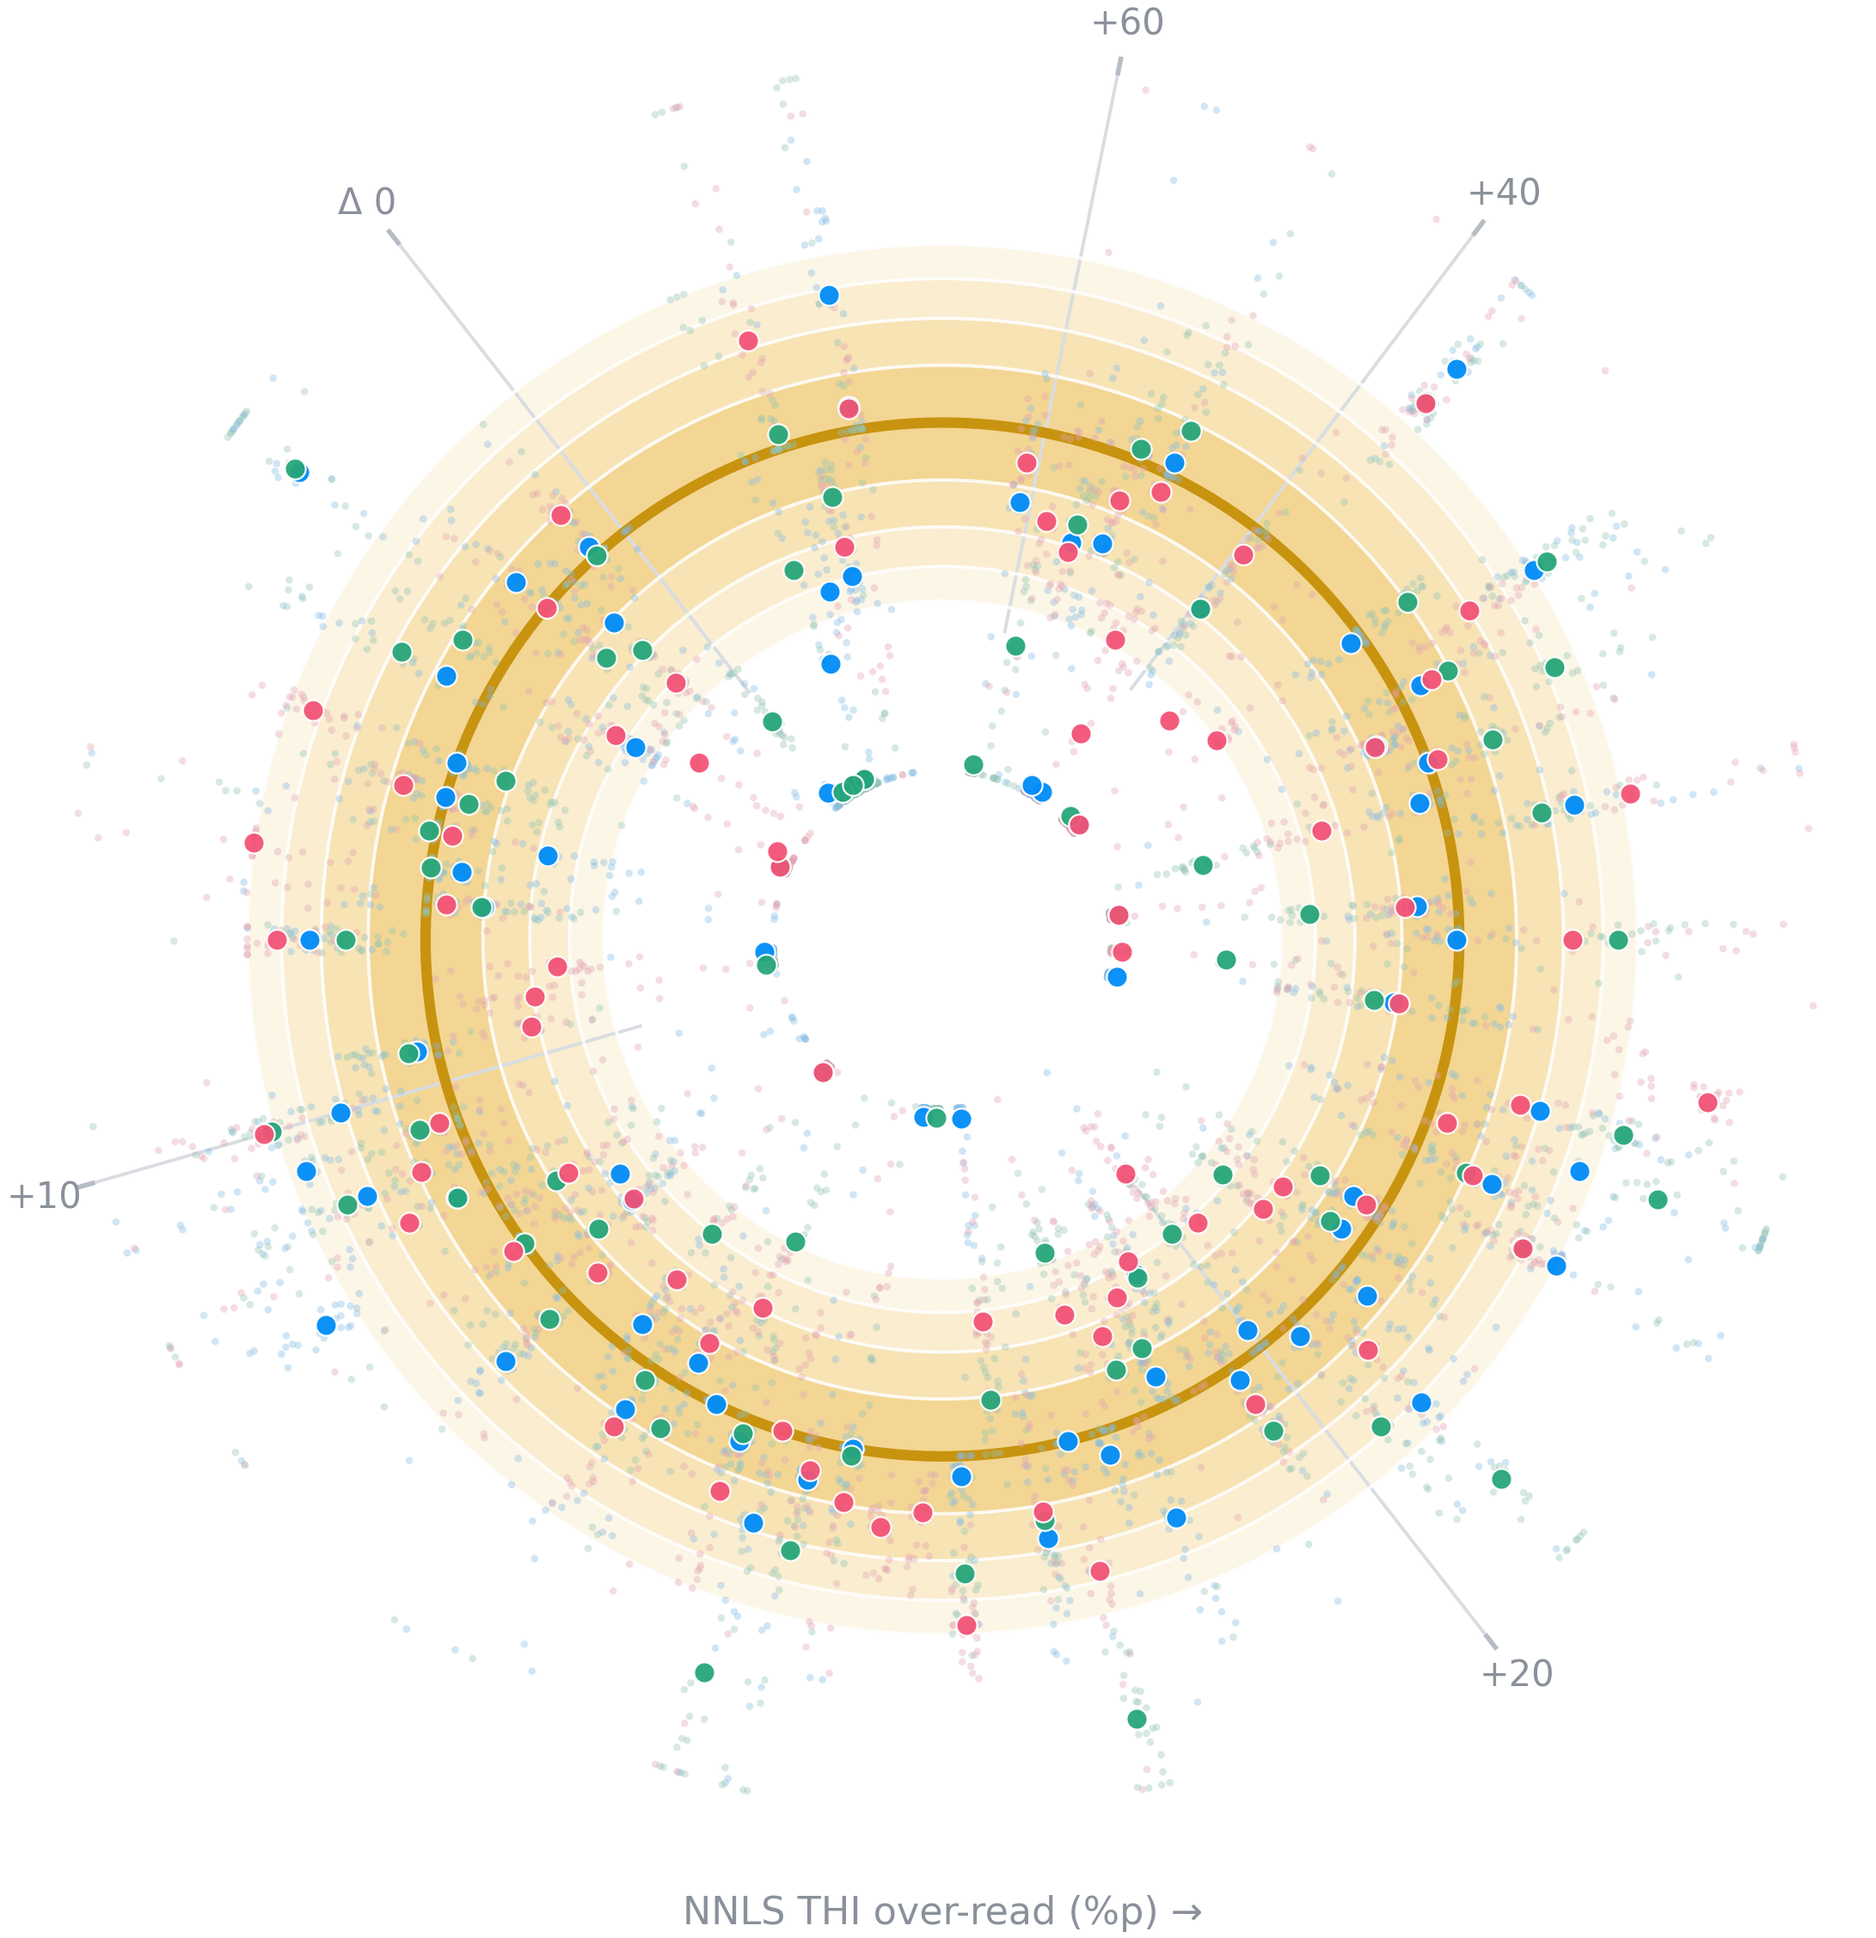
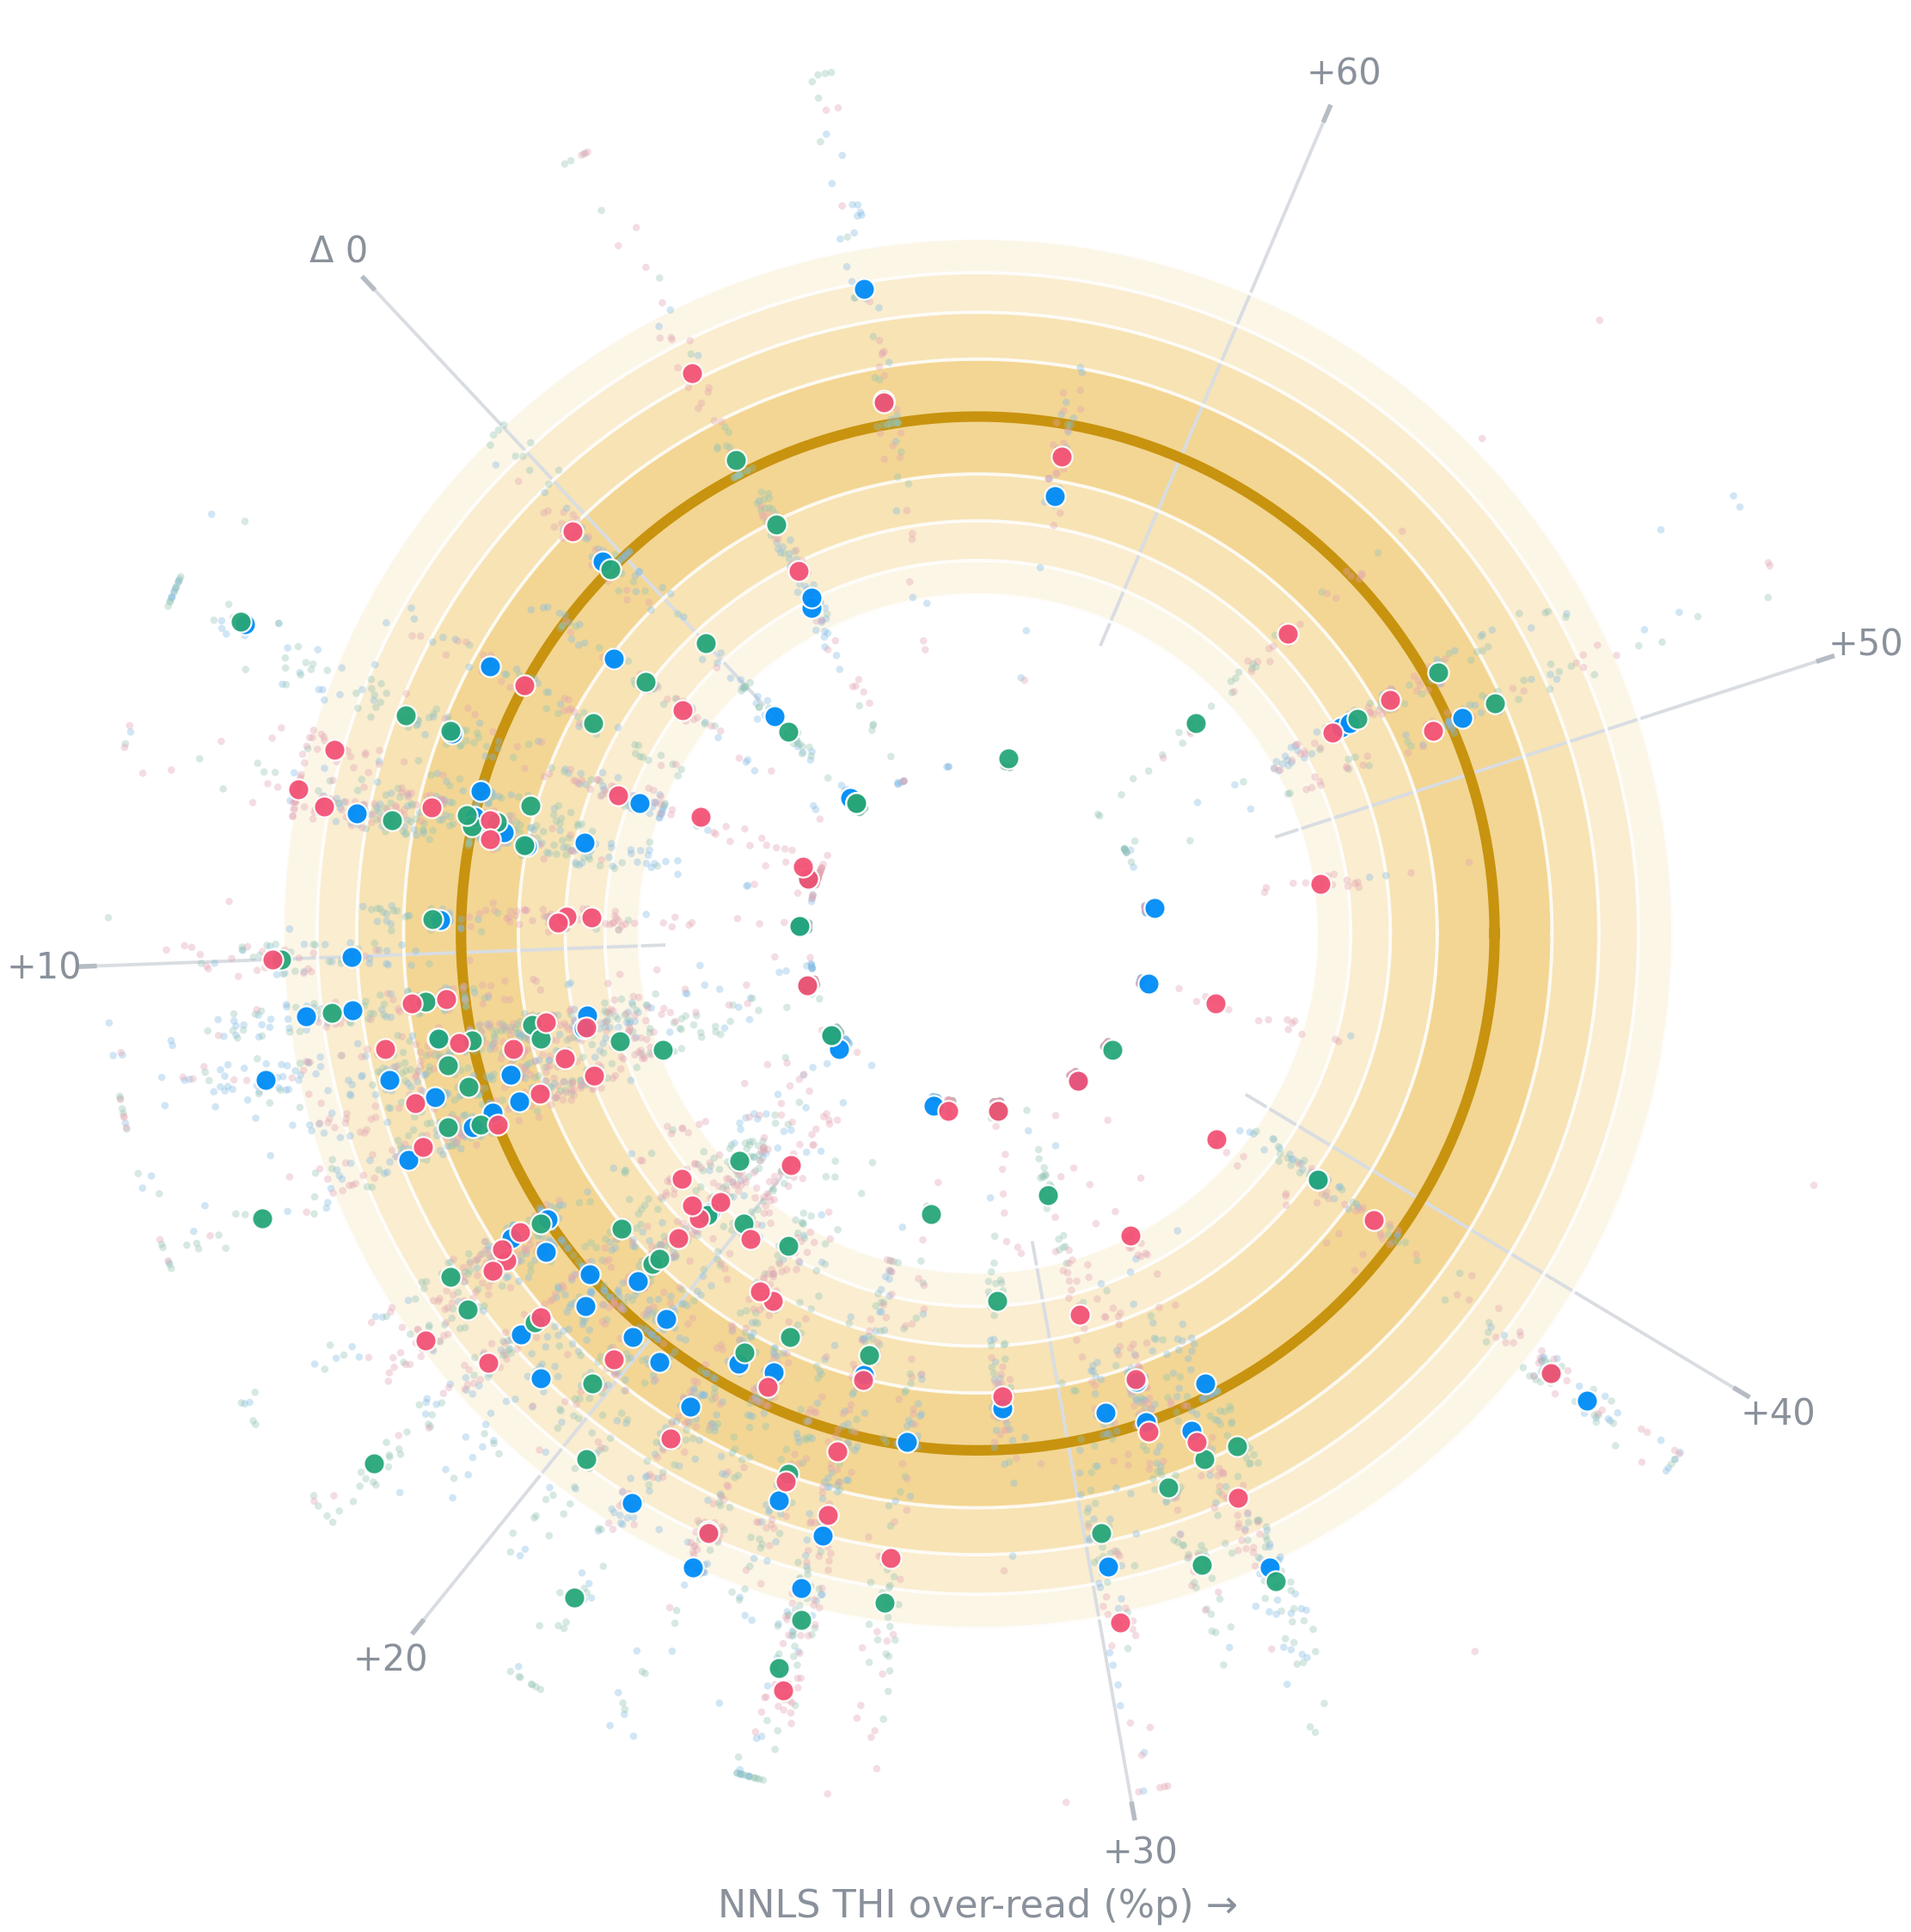
44k: angle now linear in delta (not rank) - evenly spaced grid, dot density shows real distribution

diff --git a/documentation/scripts/fig44k_spiral_um_combined.py b/documentation/scripts/fig44k_spiral_um_combined.py
@@ -115,11 +115,18 @@ for r in _csv.DictReader(open(os.path.join(
                    - float(r["Ratio_THI_True"]))
 maps = sorted({c for s in SUBS for c in data[s]},
               key=lambda c: delta.get(c, 0.0))
-ANG = {c: a for c, a in zip(
-    maps, np.deg2rad(100) + np.linspace(0, np.deg2rad(340), len(maps)))}
+# 각도 = Δ 값에 선형 비례 (순위 아님 — "점 400개 = 축 400개" 방지)
+D0 = delta.get(maps[0], 0.0)
+D1 = delta.get(maps[-1], 0.0)
+
+
+def d2ang(dv):
+    return np.deg2rad(100) + (dv - D0) / (D1 - D0) * np.deg2rad(340)
+
+
+ANG = {c: float(d2ang(delta.get(c, 0.0))) for c in maps}
 print("maps on shared axis:", len(maps),
-      "| delta range:", round(delta.get(maps[0], 0), 1), "→",
-      round(delta.get(maps[-1], 0), 1), "%p")
+      "| delta range:", round(D0, 1), "→", round(D1, 1), "%p")
 
 
 def draw_window(ax):
@@ -158,14 +165,11 @@ def draw_sub(s, ax, clouds=True):
 
 
 def draw_delta_grid(ax):
-    """Δ 눈금 격자 — 순위축이므로 위치는 정렬된 Δ에서 보간."""
-    dsort = np.array([delta.get(c, 0.0) for c in maps])
-    ranks = np.arange(len(maps))
-    for dv in (0, 10, 20, 40, 60):
-        if dv < dsort[0] or dv > dsort[-1]:
+    """Δ 눈금 격자 — 선형축이라 등간격."""
+    for dv in (0, 10, 20, 30, 40, 50, 60):
+        if dv < D0 or dv > D1:
             continue
-        rk = float(np.interp(dv, dsort, ranks))
-        a = np.deg2rad(100) + rk / (len(maps) - 1) * np.deg2rad(340)
+        a = float(d2ang(dv))
         ax.plot([a, a], [rad(1 / 2.2), 2 * RMAX + 0.06], color="#d9dde2",
                 lw=0.7, zorder=0.5)
         ax.plot([a, a], [2 * RMAX + 0.06, 2 * RMAX + 0.14], color="#b6bcc4",
